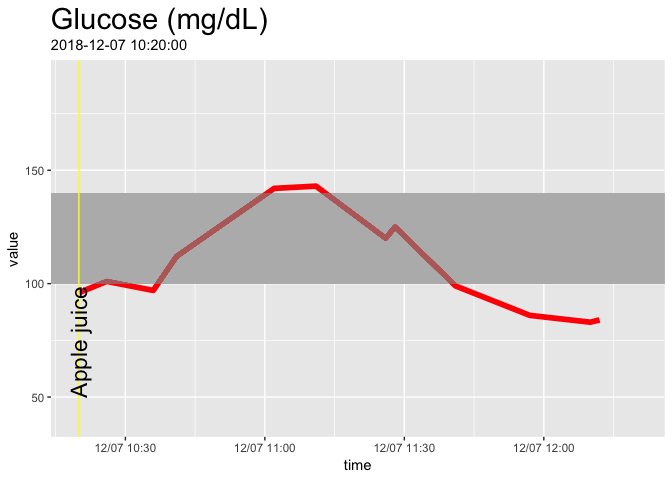
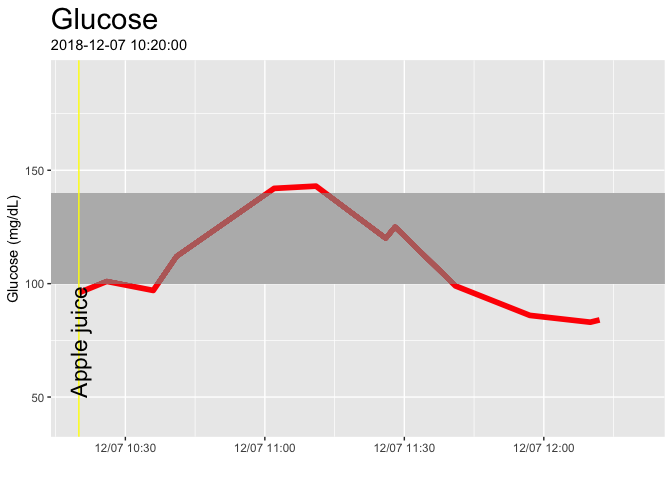
final data set ends 5/31

Changed region(s): [[0.25, 0.0, 0.4062, 0.0625], [0.0, 0.4062, 0.0312, 0.625], [0.5, 0.9375, 0.5625, 1.0]]

diff --git a/README.md b/README.md
@@ -1,7 +1,7 @@
 Continuous Glucose Monitoring with Freestyle Libre
 ================
 Richard Sprague
-2019-05-27
+2019-05-31
 
 See [Continous Glucose Monitoring: Start
 Here](http://richardsprague.com/notes/continuous-glucose-monitoring/)
@@ -122,7 +122,7 @@ cgm_display(start = min(glucose_raw$time),min(glucose_raw$time)+hours(24))
 The final full day of the dataset:
 
 ``` r
-cgm_display(start = max(glucose_raw$time)-days(1), end = max(glucose_raw$time))
+cgm_start_plot(startTime = max(glucose_raw$time)-days(1), timeLength = 24, title = "Latest Full Day")
 ```
 
 ![](README_files/figure-gfm/lastestCGMResult-1.png)<!-- -->
@@ -164,7 +164,7 @@ glucose %>% filter(apply(sapply(glucose$time,
     ## ------------------------------------------------------------------------- 
     ## Describe . (tbl_df, tbl, data.frame):
     ## 
-    ## data.frame:  1887 obs. of  1 variables
+    ## data.frame:  2018 obs. of  1 variables
     ## 
     ##   Nr  ColName  Class    NAs  Levels
     ##   1   value    numeric  .          
@@ -174,14 +174,14 @@ glucose %>% filter(apply(sapply(glucose$time,
     ## Glucose Values While Sleeping
     ## 
     ##   length       n    NAs  unique     0s   mean  meanCI
-    ##    1'887   1'887      0      89      0  78.12   77.45
-    ##           100.0%   0.0%           0.0%          78.78
+    ##    2'018   2'018      0      89      0  78.09   77.46
+    ##           100.0%   0.0%           0.0%          78.72
     ##                                                      
     ##      .05     .10    .25  median    .75    .90     .95
-    ##    51.00   59.00  71.00   78.00  86.00  95.00  102.00
+    ##    52.00   60.00  71.00   78.00  86.00  95.00  101.15
     ##                                                      
     ##    range      sd  vcoef     mad    IQR   skew    kurt
-    ##    92.00   14.66   0.19   10.38  15.00  -0.02    1.02
+    ##    92.00   14.39   0.18   10.38  15.00   0.01    1.12
     ##                                                      
     ## lowest : 40.0 (31), 41.0 (5), 42.0 (4), 43.0 (3), 44.0 (3)
     ## highest: 125.0 (2), 126.0 (2), 129.0, 131.0 (2), 132.0 (2)
@@ -199,24 +199,24 @@ glucose %>% filter(apply(sapply(glucose$time,
     ## ------------------------------------------------------------------------- 
     ## Describe . (tbl_df, tbl, data.frame):
     ## 
-    ## data.frame:  7435 obs. of  1 variables
+    ## data.frame:  7978 obs. of  1 variables
     ## 
     ##   Nr  ColName  Class    NAs        Levels
-    ##   1   value    numeric  95 (1.3%)        
+    ##   1   value    numeric  98 (1.2%)        
     ## 
     ## 
     ## ------------------------------------------------------------------------- 
     ## Glucose Values While Awake
     ## 
     ##   length      n    NAs  unique     0s    mean  meanCI
-    ##    7'435  7'340     95     134      0   88.63   88.19
-    ##           98.7%   1.3%           0.0%           89.07
+    ##    7'978  7'880     98     134      0   88.82   88.40
+    ##           98.8%   1.2%           0.0%           89.24
     ##                                                      
     ##      .05    .10    .25  median    .75     .90     .95
-    ##    61.00  68.00  77.00   86.00  98.00  114.00  125.00
+    ##    61.00  68.00  77.00   86.00  99.00  114.00  125.00
     ##                                                      
     ##    range     sd  vcoef     mad    IQR    skew    kurt
-    ##   151.00  19.09   0.22   14.83  21.00    0.73    1.47
+    ##   151.00  19.02   0.21   14.83  22.00    0.74    1.44
     ##                                                      
     ## lowest : 40.0 (33), 41.0 (5), 42.0 (5), 43.0 (3), 44.0 (7)
     ## highest: 174.0, 182.0 (2), 187.0, 188.0, 191.0
@@ -232,24 +232,24 @@ glucose %>% filter(apply(sapply(glucose$time,
     ## ------------------------------------------------------------------------- 
     ## Describe . (tbl_df, tbl, data.frame):
     ## 
-    ## data.frame:  34 obs. of  1 variables
+    ## data.frame:  36 obs. of  1 variables
     ## 
     ##   Nr  ColName  Class    NAs       Levels
-    ##   1   value    numeric  1 (2.9%)        
+    ##   1   value    numeric  1 (2.8%)        
     ## 
     ## 
     ## ------------------------------------------------------------------------- 
     ## Glucose Values While Exercising
     ## 
     ##   length      n    NAs  unique      0s    mean  meanCI
-    ##       34     33      1      28       0   91.76   85.33
-    ##           97.1%   2.9%            0.0%           98.18
+    ##       36     35      1      30       0   91.43   85.36
+    ##           97.2%   2.8%            0.0%           97.50
     ##                                                       
     ##      .05    .10    .25  median     .75     .90     .95
-    ##    69.60  71.20  78.00   87.00  100.00  114.80  120.80
+    ##    69.70  71.40  78.50   87.00  100.00  113.60  120.60
     ##                                                       
     ##    range     sd  vcoef     mad     IQR    skew    kurt
-    ##    77.00  18.12   0.20   19.27   22.00    0.77    0.13
+    ##    77.00  17.67   0.19   19.27   21.50    0.83    0.33
     ##                                                       
     ## lowest : 67.0, 69.0, 70.0, 71.0, 72.0
     ## highest: 110.0, 116.0, 120.0, 122.0, 144.0

diff --git a/food_effects.md b/food_effects.md
@@ -1,7 +1,7 @@
 How specific foods affect my glucose levels
 ================
 Richard Sprague
-2019-05-27
+2019-05-31
 
 Here are my glucose levels each time I eat a particular food.
 
@@ -16,4 +16,4 @@ food_effect(foodlist) %>% group_by(experiment) %>% mutate(delta = (time - min(ti
 
 and a bunch of other foods:
 
-![](food_effects_files/figure-gfm/unnamed-chunk-2-1.png)<!-- -->![](food_effects_files/figure-gfm/unnamed-chunk-2-2.png)<!-- -->![](food_effects_files/figure-gfm/unnamed-chunk-2-3.png)<!-- -->![](food_effects_files/figure-gfm/unnamed-chunk-2-4.png)<!-- -->![](food_effects_files/figure-gfm/unnamed-chunk-2-5.png)<!-- -->![](food_effects_files/figure-gfm/unnamed-chunk-2-6.png)<!-- -->![](food_effects_files/figure-gfm/unnamed-chunk-2-7.png)<!-- -->![](food_effects_files/figure-gfm/unnamed-chunk-2-8.png)<!-- -->![](food_effects_files/figure-gfm/unnamed-chunk-2-9.png)<!-- -->![](food_effects_files/figure-gfm/unnamed-chunk-2-10.png)<!-- -->![](food_effects_files/figure-gfm/unnamed-chunk-2-11.png)<!-- -->![](food_effects_files/figure-gfm/unnamed-chunk-2-12.png)<!-- -->![](food_effects_files/figure-gfm/unnamed-chunk-2-13.png)<!-- -->![](food_effects_files/figure-gfm/unnamed-chunk-2-14.png)<!-- -->![](food_effects_files/figure-gfm/unnamed-chunk-2-15.png)<!-- -->
+![](food_effects_files/figure-gfm/unnamed-chunk-2-1.png)<!-- -->![](food_effects_files/figure-gfm/unnamed-chunk-2-2.png)<!-- -->![](food_effects_files/figure-gfm/unnamed-chunk-2-3.png)<!-- -->![](food_effects_files/figure-gfm/unnamed-chunk-2-4.png)<!-- -->![](food_effects_files/figure-gfm/unnamed-chunk-2-5.png)<!-- -->![](food_effects_files/figure-gfm/unnamed-chunk-2-6.png)<!-- -->![](food_effects_files/figure-gfm/unnamed-chunk-2-7.png)<!-- -->![](food_effects_files/figure-gfm/unnamed-chunk-2-8.png)<!-- -->![](food_effects_files/figure-gfm/unnamed-chunk-2-9.png)<!-- -->![](food_effects_files/figure-gfm/unnamed-chunk-2-10.png)<!-- -->![](food_effects_files/figure-gfm/unnamed-chunk-2-11.png)<!-- -->![](food_effects_files/figure-gfm/unnamed-chunk-2-12.png)<!-- -->![](food_effects_files/figure-gfm/unnamed-chunk-2-13.png)<!-- -->![](food_effects_files/figure-gfm/unnamed-chunk-2-14.png)<!-- -->![](food_effects_files/figure-gfm/unnamed-chunk-2-15.png)<!-- -->![](food_effects_files/figure-gfm/unnamed-chunk-2-16.png)<!-- -->
